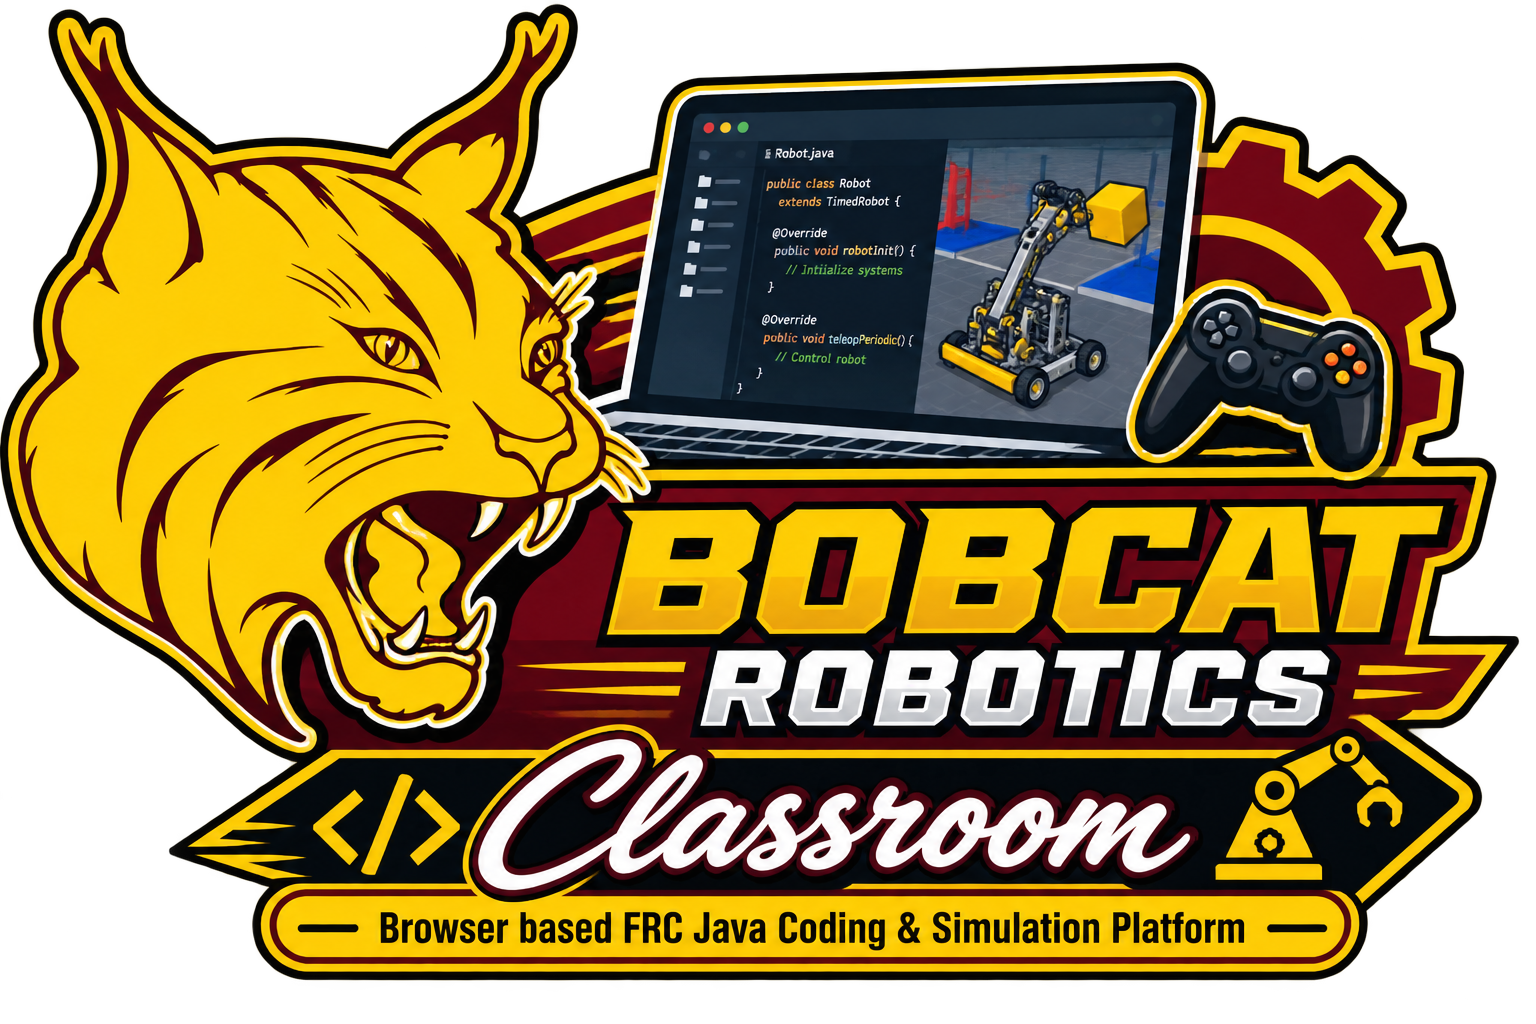
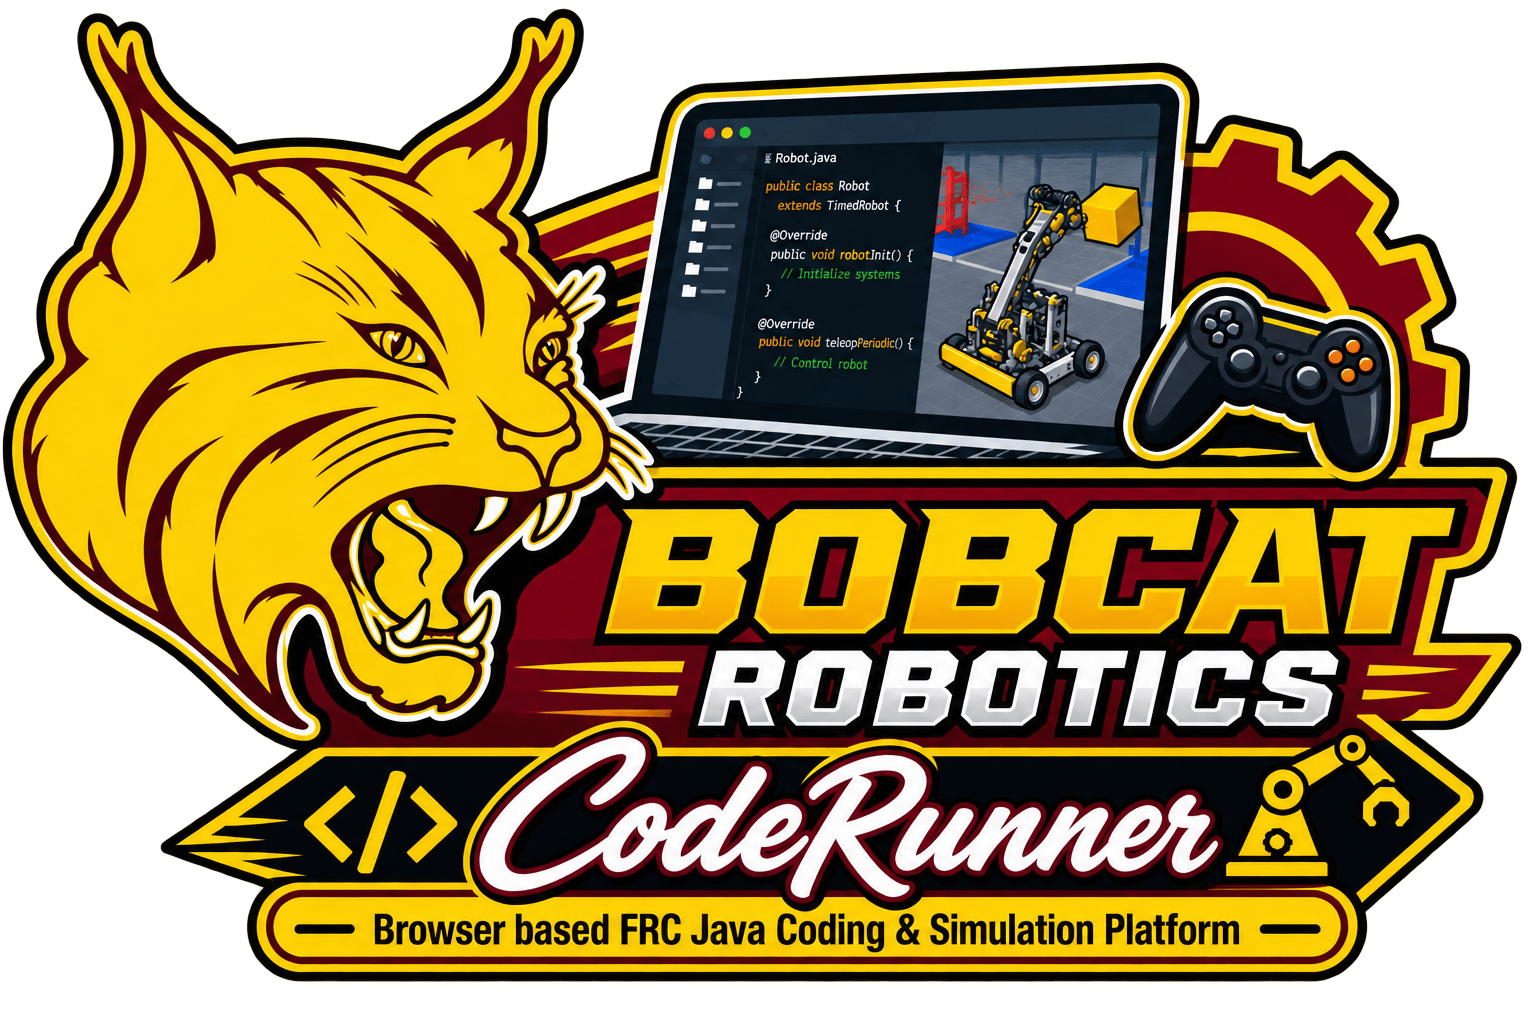
Rename from Classroom to CodeRunner

diff --git a/apps/web/src/components/Topbar.tsx b/apps/web/src/components/Topbar.tsx
@@ -30,7 +30,7 @@ export function Topbar({
 			<div className="flex items-center gap-2.5">
 				<img src={coderunnerHeaderImg} alt="" className="h-6 w-auto" />
 				<strong className="whitespace-nowrap text-[13.5px] font-semibold tracking-tight">
-					Bobcat Robotics Classroom
+					Bobcat Robotics CodeRunner
 				</strong>
 			</div>
 			<div className="ml-auto flex items-center gap-5">

diff --git a/apps/web/src/routes/ServiceOfflinePage.tsx b/apps/web/src/routes/ServiceOfflinePage.tsx
@@ -50,7 +50,7 @@ export function ServiceOfflinePage({
 							</p>
 
 							<p className="text-[22px] font-semibold text-foreground">
-								Classroom is Offline
+								CodeRunner is Offline
 							</p>
 							<p className="mt-2 text-[12px] text-muted-foreground">
 								This service is currently unavailable. Check back soon or

diff --git a/apps/web/index.html b/apps/web/index.html
@@ -4,7 +4,7 @@
     <meta charset="UTF-8" />
     <link rel="icon" type="image/png" href="/coderunner-icon.png" />
     <meta name="viewport" content="width=device-width, initial-scale=1.0" />
-    <title>Bobcat Robotics Classroom</title>
+    <title>Bobcat Robotics CodeRunner</title>
   </head>
   <body>
     <div id="root"></div>

diff --git a/apps/control/src/storage.ts b/apps/control/src/storage.ts
@@ -72,7 +72,7 @@ export type AuthContext = {
 
 export class SlugTakenError extends Error {
 	constructor(slug: string) {
-		super(`The classroom name "${slug}" is already taken.`);
+		super(`The coderunner name "${slug}" is already taken.`);
 		this.name = "SlugTakenError";
 	}
 }

diff --git a/README.md b/README.md
@@ -1,4 +1,4 @@
-# Classroom
+# CodeRunner
 
 A self-hosted, browser-based IDE for learning FRC robot programming. Students get a hosted VS Code editor, isolated Docker workspaces, one-click robot simulation, live AdvantageScope telemetry, and PathPlanner — all with no local setup. Lesson modules guide beginners, while GitHub team import supports real robot projects.
 
